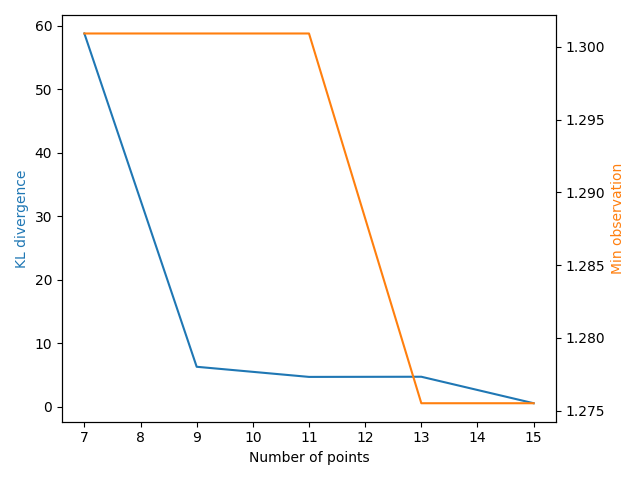
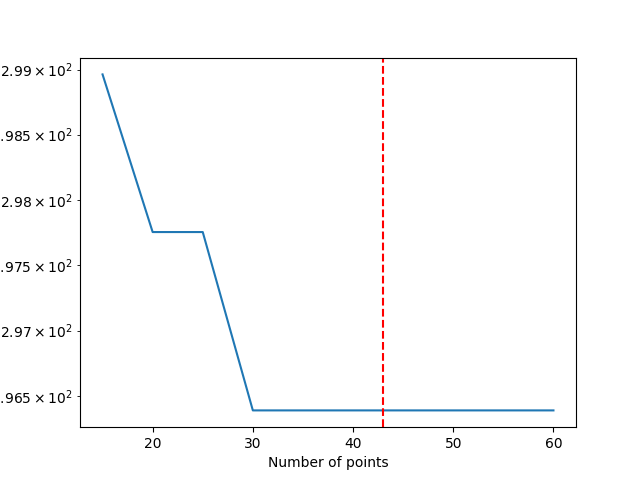
GITBOOK-11: No subject

diff --git a/home/meeting-minutes.md b/home/meeting-minutes.md
@@ -1,8 +1,102 @@
 # ⏲ Meeting Minutes
 
-## March XX, 2024
+## ![](<../.gitbook/assets/func\_round3 (1).png>)March 06, 2024
 
-#### LnL nans
+Things to go over:
+
+* Toy simulation studies
+* LnL(Mc, z | COMPAS SF params) -> nan fix?
+* Surrogate LnL(Mc, z | COMPAS SF params) using 4 params?
+* Surrogate LnL(Mc, z | COMPAS SF params)  -> P(COMPAS SF params| Mc, z)
+* Next steps
+
+### \[Toy] Simulation Studies
+
+* 1\) Multimodal LnL
+  * Simulate LnL + train Lnl surrogate
+  * Compute KL divergence WRT number of 'training' points for the surrogate
+    * _Can we get low KL divergences? Can we use this as a stopping criterion for training?_
+* 2\) Posterior generation with surrogate LnL
+  * Simulate N datasets with some model,&#x20;
+    * run PE using an analytical Bayesian framework
+    * run PE using LnL surrogate **(stop using some automated critera)**
+    * Compare corners + make PP plots -- are posteriors sensible?
+
+**Code for simulation studies:** [https://github.com/COMPAS-Surrogate/simulation\_study](https://github.com/COMPAS-Surrogate/simulation\_study)&#x20;
+
+### 1) Multimodal LnL
+
+**Basic test**
+
+{% embed url="https://compas-surrogate.github.io/lnl_surrogate/studies/example.html#bimodal-gaussian" %}
+Bimodal example
+{% endembed %}
+
+| Exploratory Acquisition                                                                                                             | Exploitative Acquisition                                                                                                             | Combined Acquisition                                                                                                          |
+| ----------------------------------------------------------------------------------------------------------------------------------- | ------------------------------------------------------------------------------------------------------------------------------------ | ----------------------------------------------------------------------------------------------------------------------------- |
+| <img src="https://compas-surrogate.github.io/lnl_surrogate/_images/train_multi_explore.gif" alt="Exploratory" data-size="original"> | <img src="https://compas-surrogate.github.io/lnl_surrogate/_images/train_multi_exploit.gif" alt="Exploitative" data-size="original"> | <img src="https://compas-surrogate.github.io/lnl_surrogate/_images/train_multi_both.gif" alt="Combined" data-size="original"> |
+
+![](https://compas-surrogate.github.io/lnl\_surrogate/\_images/regret\_multi.png)
+
+**KL Divergence**
+
+
+
+<div>
+
+<figure><img src="../.gitbook/assets/true_vs_surrogate_rnd0.png" alt=""><figcaption></figcaption></figure>
+
+ 
+
+<figure><img src="../.gitbook/assets/true_vs_surrogate_rnd1.png" alt=""><figcaption></figcaption></figure>
+
+ 
+
+<figure><img src="../.gitbook/assets/true_vs_surrogate_rnd2.png" alt=""><figcaption></figcaption></figure>
+
+ 
+
+<figure><img src="../.gitbook/assets/true_vs_surrogate_rnd3.png" alt=""><figcaption></figcaption></figure>
+
+ 
+
+<figure><img src="../.gitbook/assets/true_vs_surrogate_rnd4.png" alt=""><figcaption></figcaption></figure>
+
+</div>
+
+<figure><img src="../.gitbook/assets/regret_vs_kl (1).png" alt=""><figcaption></figcaption></figure>
+
+**Repeating 50 times:**
+
+<div>
+
+<figure><img src="../.gitbook/assets/kl_divergence.png" alt=""><figcaption><p>KL Div decreases as we expect </p></figcaption></figure>
+
+ 
+
+<figure><img src="../.gitbook/assets/error_histogram.png" alt=""><figcaption><p>By iteration~15 we've reached the peak of the LnL surface</p></figcaption></figure>
+
+</div>
+
+Looks like the the mix of exploration + exploitation seems to work? There is probably room for improvement here....
+
+@ JEFF -- maybe you can poke around this simulation study? (or construct more complex simulation studies -- eg an egg box? Or [Johannes Buchner (pymultinest)'](https://dynesty.readthedocs.io/en/latest/examples.html#exponential-wave)s exponential wave example?
+
+
+
+### **Linear regression simulation study**
+
+| Regret (min acquired point, stopped at red line)                                                                                                                                                                               | Compare posteriors                                                        |
+| ------------------------------------------------------------------------------------------------------------------------------------------------------------------------------------------------------------------------------ | ------------------------------------------------------------------------- |
+| <p></p><p><img src="../.gitbook/assets/regret_vs_kl.png" alt="Y-axis is the Min LnL (min acquired point, not the surrogate, the training data), the red line marks the &#x27;stopping critera&#x27;" data-size="original"></p> | <img src="../.gitbook/assets/corner (3).png" alt="" data-size="original"> |
+
+
+
+<figure><img src="../.gitbook/assets/pp_plot.png" alt=""><figcaption></figcaption></figure>
+
+###
+
+### LnL nans
 
 Likelihood equation: $$\log L(D|\lambda) = \log L_{\rm Poisson}(N_{obs}|\lambda) + \sum^{N_{obs}} \log p(D_i | \lambda)$$
 
@@ -116,69 +210,19 @@ The `self.n_detections(duration)`--> 0 leading to the nan
 
 <mark style="color:red;">is my Current fix valid:</mark> <mark style="color:red;"></mark><mark style="color:red;">`prob_of_mcz`</mark><mark style="color:red;">-> 0 if</mark>  $$N_{model}==0$$
 
-#### Multimodal 1d Gaussian
 
 
+### LnL(BBH | COMPAS SF params) Surrogate
 
+<figure><img src="../.gitbook/assets/bo_metrics_round3.png" alt=""><figcaption></figcaption></figure>
 
+<figure><img src="../.gitbook/assets/eval_round3.png" alt=""><figcaption></figcaption></figure>
 
-**Basic test**
+| \~10 Pts                                                                   | \~50 Pts                                                                       |
+| -------------------------------------------------------------------------- | ------------------------------------------------------------------------------ |
+| <img src="../.gitbook/assets/func_round0.png" alt="" data-size="original"> | <img src="../.gitbook/assets/func_round3 (2).png" alt="" data-size="original"> |
 
-{% embed url="https://compas-surrogate.github.io/lnl_surrogate/studies/example.html#bimodal-gaussian" %}
-Bimodal example
-{% endembed %}
-
-| Exploratory Acquisition                                                                                                             | Exploitative Acquisition                                                                                                             | Combined Acquisition                                                                                                          |
-| ----------------------------------------------------------------------------------------------------------------------------------- | ------------------------------------------------------------------------------------------------------------------------------------ | ----------------------------------------------------------------------------------------------------------------------------- |
-| <img src="https://compas-surrogate.github.io/lnl_surrogate/_images/train_multi_explore.gif" alt="Exploratory" data-size="original"> | <img src="https://compas-surrogate.github.io/lnl_surrogate/_images/train_multi_exploit.gif" alt="Exploitative" data-size="original"> | <img src="https://compas-surrogate.github.io/lnl_surrogate/_images/train_multi_both.gif" alt="Combined" data-size="original"> |
-
-![](https://compas-surrogate.github.io/lnl\_surrogate/\_images/regret\_multi.png)
-
-**KL Divergence**
-
-
-
-<div>
-
-<figure><img src="../.gitbook/assets/true_vs_surrogate_rnd0.png" alt=""><figcaption></figcaption></figure>
-
- 
-
-<figure><img src="../.gitbook/assets/true_vs_surrogate_rnd1.png" alt=""><figcaption></figcaption></figure>
-
- 
-
-<figure><img src="../.gitbook/assets/true_vs_surrogate_rnd2.png" alt=""><figcaption></figcaption></figure>
-
- 
-
-<figure><img src="../.gitbook/assets/true_vs_surrogate_rnd3.png" alt=""><figcaption></figcaption></figure>
-
- 
-
-<figure><img src="../.gitbook/assets/true_vs_surrogate_rnd4.png" alt=""><figcaption></figcaption></figure>
-
-</div>
-
-<figure><img src="../.gitbook/assets/regret_vs_kl.png" alt=""><figcaption></figcaption></figure>
-
-**Repeating 50 times:**
-
-<div>
-
-<figure><img src="../.gitbook/assets/kl_divergence.png" alt=""><figcaption><p>KL Div decreases as we expect </p></figcaption></figure>
-
- 
-
-<figure><img src="../.gitbook/assets/error_histogram.png" alt=""><figcaption><p>By iteration~15 we've reached the peak of the LnL surface</p></figcaption></figure>
-
-</div>
-
-
-
-
-
-**PP-Plot**
+***
 
 ## Feb 19th, 2024
 
